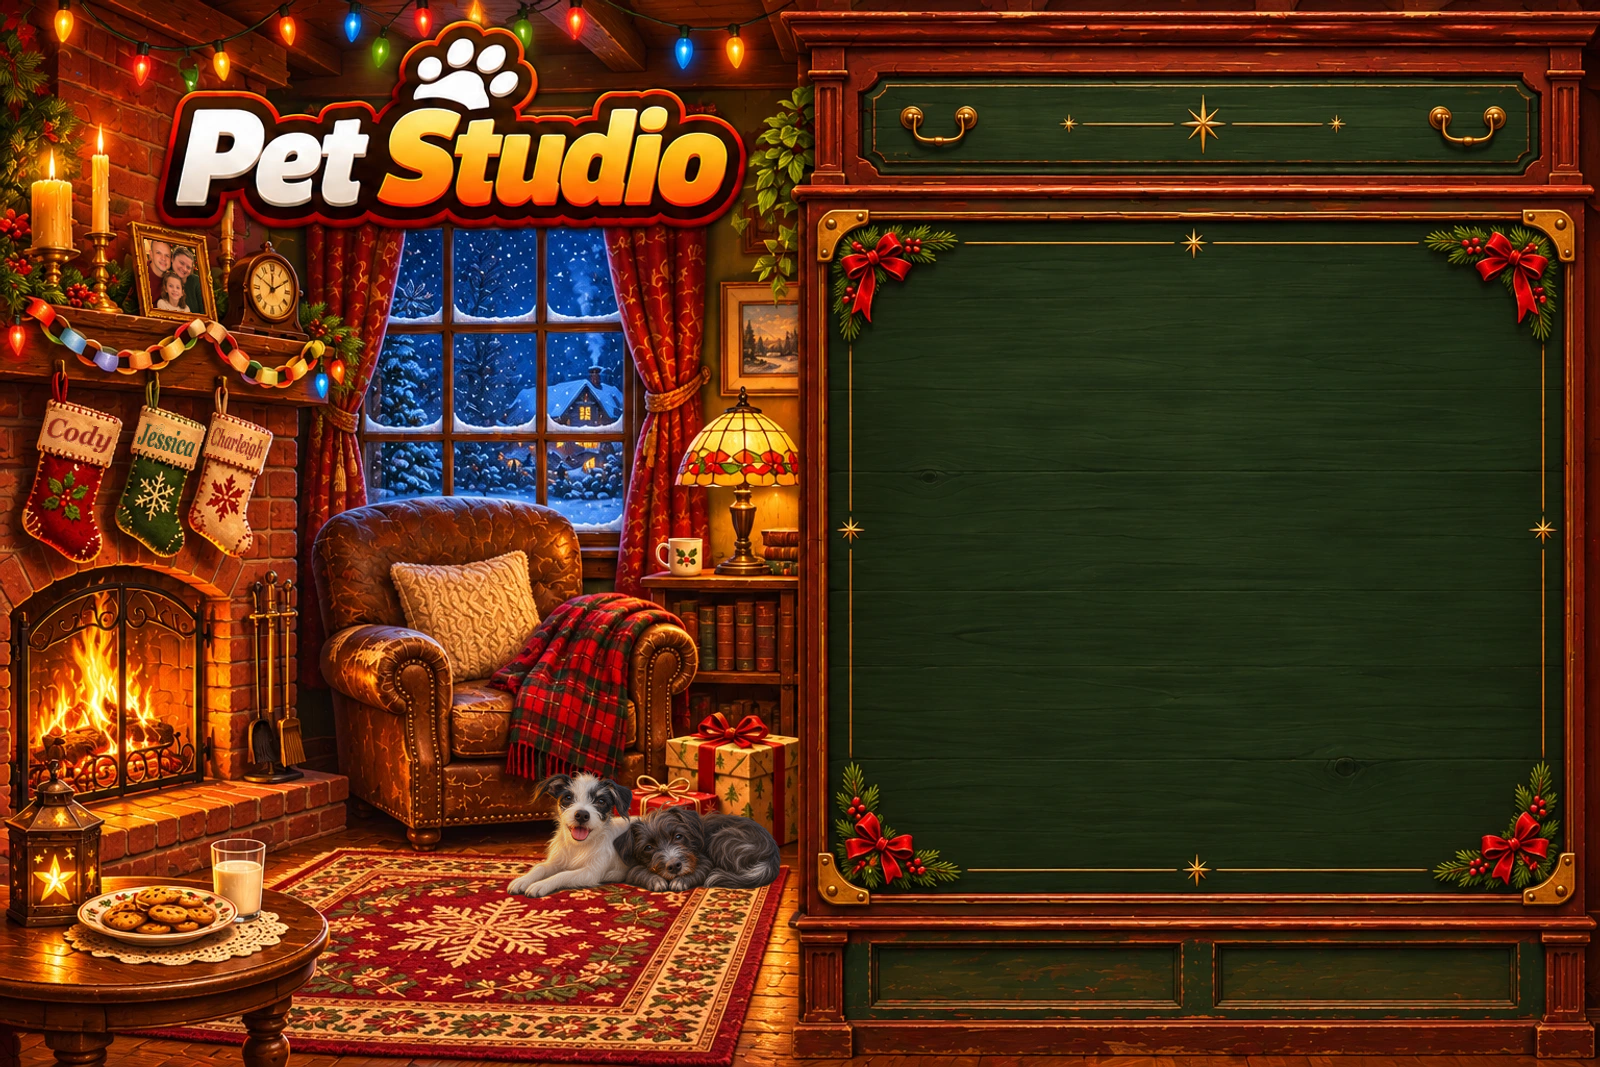
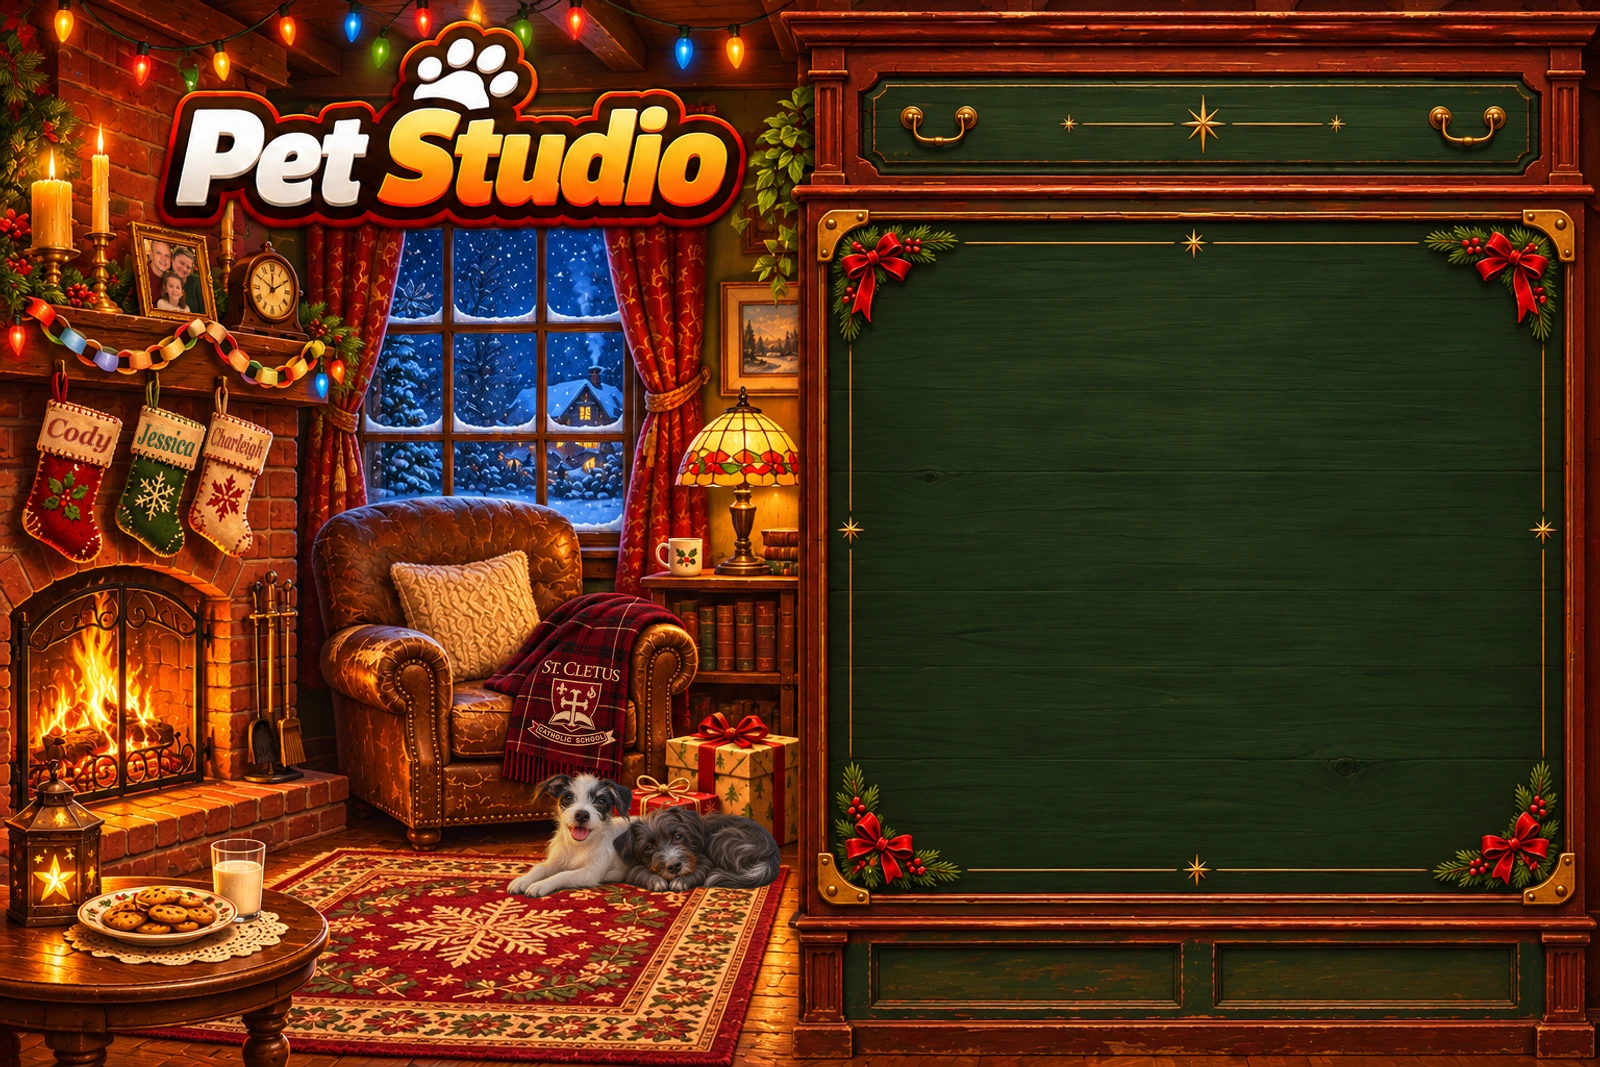
Add a St. Cletus school blanket to the Christmas Eve armchair

Changed region(s): [[0.2812, 0.5567, 0.4375, 0.7423]]

diff --git a/index.html b/index.html
@@ -68,7 +68,7 @@
   <meta data-pet-runtime="labubu" data-pet-runtime-style="labubu-pet/interactive.css?v=20261025-sleep-zs-look-v2">
   <meta data-pet-studio-stylesheet="pet-studio-gallery.css?v=20261025-v1">
   <meta data-pet-studio-stylesheet="pet-studio-art-themes.css?v=20261102-labels-select-contrast-v6">
-  <meta data-pet-studio-stylesheet="pet-studio-seasonal.css?v=20261127-hearth-dogs-v2">
+  <meta data-pet-studio-stylesheet="pet-studio-seasonal.css?v=20261127-school-throw">
   <meta data-pet-studio-stylesheet="pet-studio-responsive.css?v=20261104-wood-board-v6">
   <meta data-pet-runtime="labubu" data-pet-runtime-script="labubu-pet/skins.js?v=20261025-ears-v1">
   <meta data-pet-runtime="labubu" data-pet-runtime-script="labubu-pet/accessories.js?v=20261026-scarf-fit-v8">

diff --git a/pet-studio-seasonal.css b/pet-studio-seasonal.css
@@ -53,7 +53,7 @@
 }
 /* Christmas Eve shares Autumn's painted board geometry. Both art layers use the same bounds. */
 .pet-studio[data-theme][data-christmas-eve] {
- --season-frame:url('assets/pet-studio/christmas-eve.webp?v=20261127-hearth-dogs-v2');
+ --season-frame:url('assets/pet-studio/christmas-eve.webp?v=20261127-school-throw');
  --mantel-motion:url('assets/pet-studio/christmas-eve-motion.svg');
 }
 @media (min-width:701px) {
